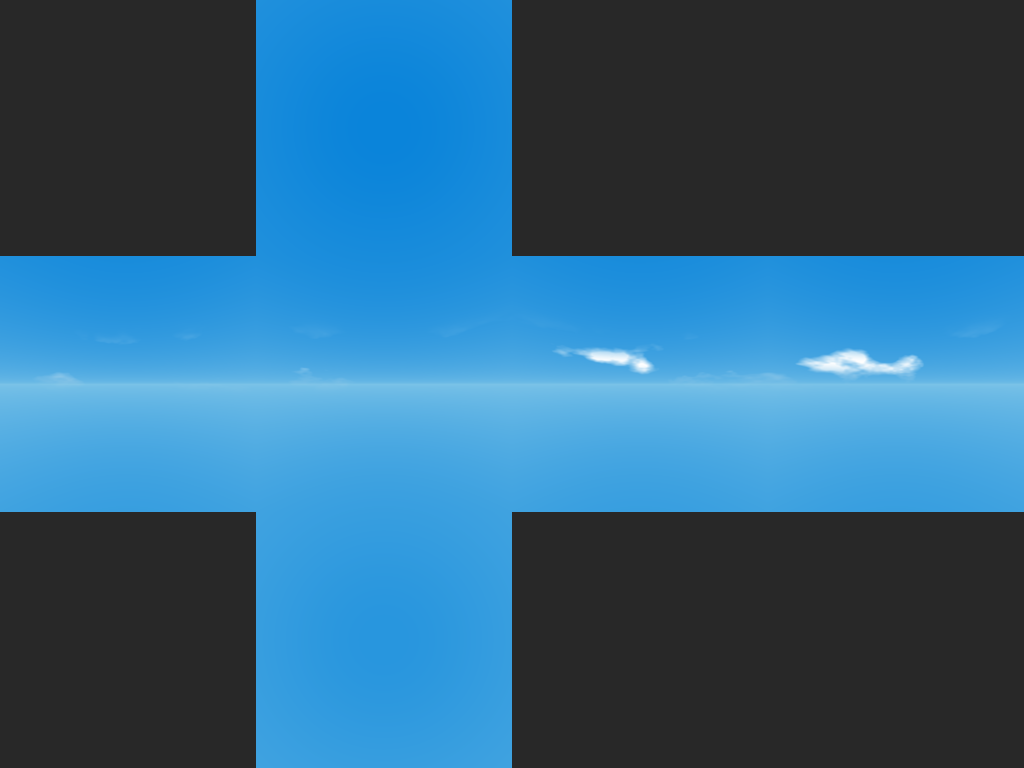
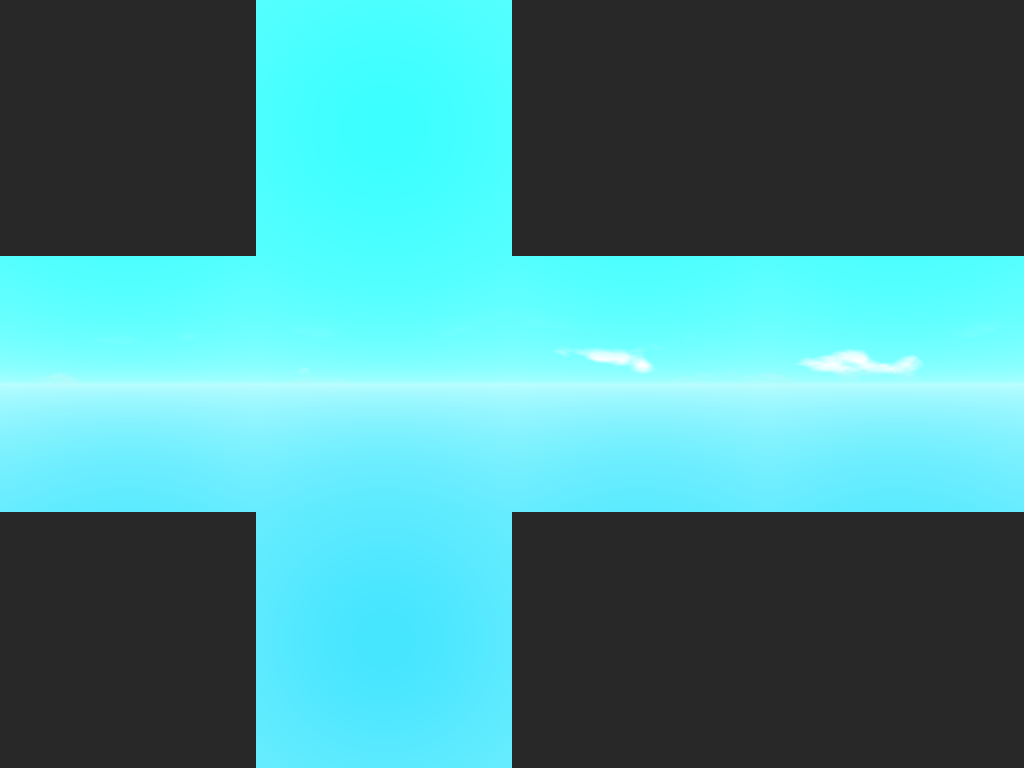
A custom painted sky, since no amount of global Saturation could reach Egg's clipped-cyan sky
Bisected the global ColorCorrection.Saturation lever to find its real ceiling: at 0.6 (well short
of the 1.3 needed to visually approach their sky) skin was already cooking to (219,125,37) and
walls to (227,135,10), while the sky itself still wasn't close. One global knob can't selectively
saturate the sky without hitting everything else identically - it was never going to get there.

Regenerated tools/make_sky_day.py with colour sampled directly off Egg's own screenshot (their
clear sky sits at roughly G/B=255 regardless of position, only Red varies) instead of a realistic
gradient, rendered + uploaded the six faces, and wired MapService's Sky instance to actually use
them (SkyboxFt/Bk/Lf/Rt/Up/Dn were never set before this - the custom Day texture has existed in
Config/Textures since an earlier session but nothing ever pointed the Sky at it). Roblox still
draws the real sun on top (CelestialBodiesShown), so shadows/bloom/glare from the last two commits
are untouched. Confirmed live: sky now samples at (99,245,242) against their (89-101,255,255),
while skin and walls read exactly as before - the fix no longer costs anything elsewhere.

Claude-Session: https://claude.ai/code/session_01FPRhtwgxkAxqH56esQc62m

diff --git a/tools/make_sky_day.py b/tools/make_sky_day.py
@@ -19,10 +19,14 @@ from make_skybox import N, face_dirs, fbm
 ROOT = Path(__file__).resolve().parents[1]
 OUT = ROOT / "blender" / "textures" / "skybox"
 
-# Matched to Steal An Egg's sky: deep clear blue overhead, lighter towards the horizon
-ZENITH = np.array([10, 132, 218]) / 255
-HORIZON = np.array([125, 196, 232]) / 255
-BELOW = np.array([40, 150, 222]) / 255
+# Matched to Egg's own sky, pixel-sampled from a real screenshot (not eyeballed): their clear sky
+# sits at roughly G/B = 255 everywhere, fully saturated, with only Red varying - deep cyan overhead,
+# paling toward near-white at the horizon. A believable realistic gradient (the old ZENITH/HORIZON
+# below this comment, kept in git history) tops out nowhere near that; only a flat painted sky can
+# hit it without wrecking the rest of the scene the way pushing global Saturation did.
+ZENITH = np.array([60, 255, 255]) / 255
+HORIZON = np.array([190, 255, 255]) / 255
+BELOW = np.array([70, 230, 255]) / 255
 
 
 def render(face):
